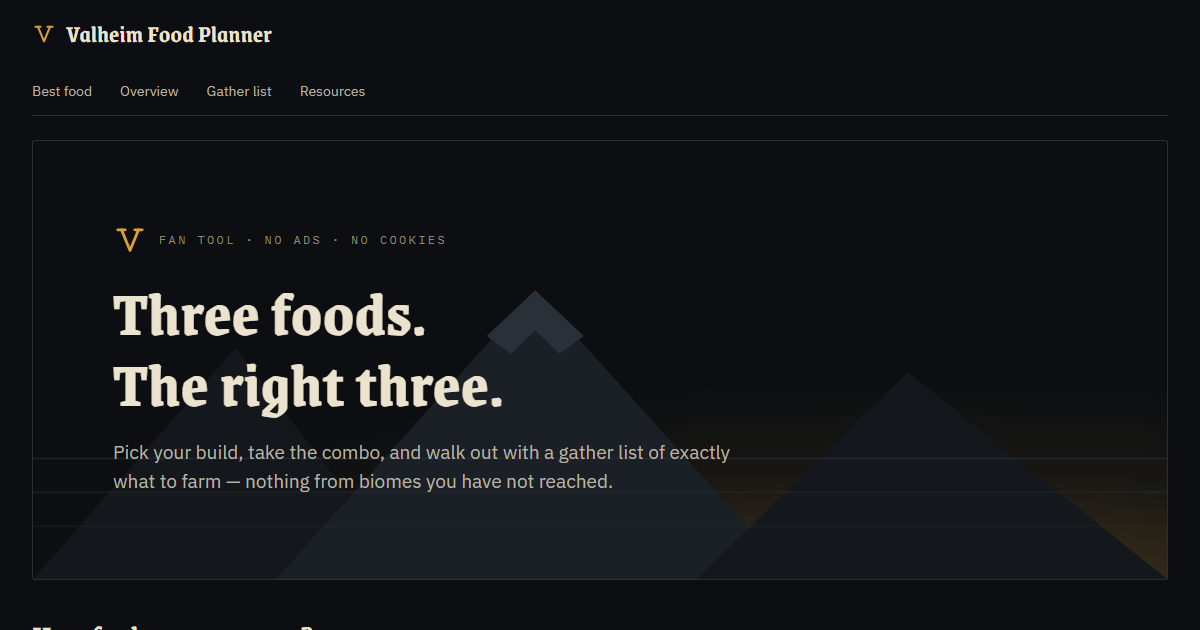
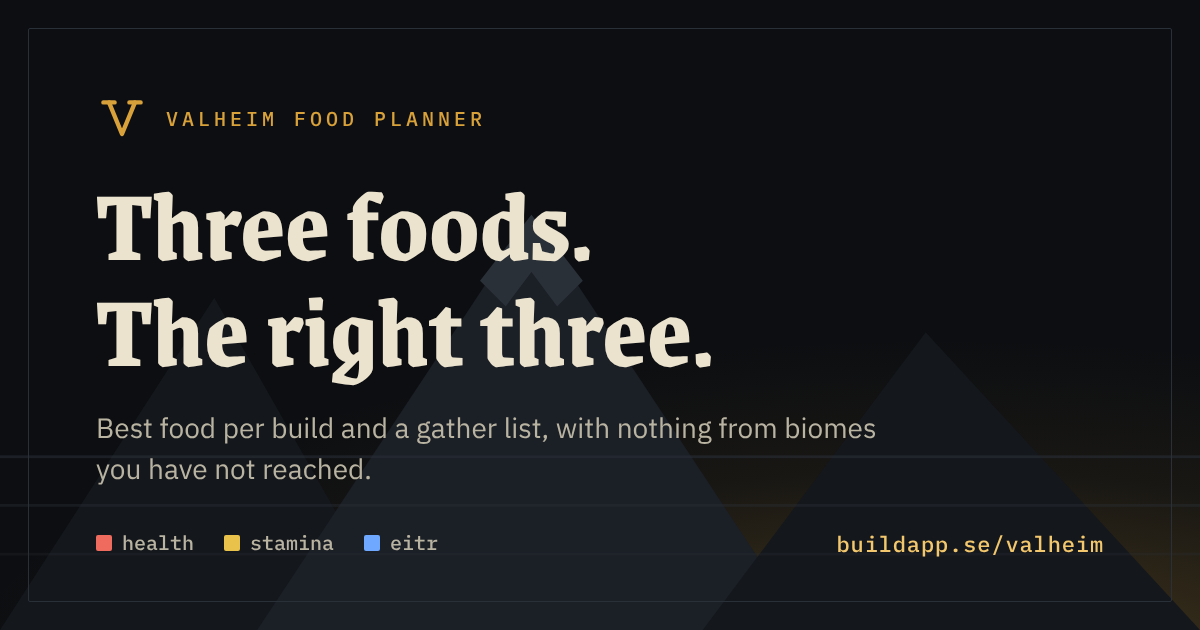
Delningsbild ritad från og.source.html i stället för skärmklipp
Den gamla og.png var ett skärmklipp av sidans topp med en avklippt rubrik i
nederkanten och ingen källa. Nu ett eget kort i sidans stil (bergskammen, glöden,
Grenze, V-märket), renderat 1200x630 med Playwright från og.source.html.

Claude-Session: https://claude.ai/code/session_012Wu9qtNehbMa9msHaviQqF

diff --git a/og.source.html b/og.source.html
@@ -1,0 +1,49 @@
+<!doctype html>
+<!-- Source for icons/og.png (1200x630), the share preview. Not deployed.
+     Render: open at 1200x630 in headless Chromium once the fonts have loaded and screenshot the
+     viewport. Colours, ridge and type are copied from style.css and the first-visit hero in src/app.ts. -->
+<html lang="en">
+<head>
+<meta charset="utf-8">
+<link href="https://fonts.googleapis.com/css2?family=Grenze:wght@700&family=IBM+Plex+Sans:wght@400&family=IBM+Plex+Mono:wght@500&display=block" rel="stylesheet">
+<style>
+  * { margin: 0; padding: 0; box-sizing: border-box; }
+  html, body { width: 1200px; height: 630px; overflow: hidden; }
+  body { background: #0c0e11; color: #ece3cf; font-family: 'IBM Plex Sans', sans-serif; position: relative; }
+  .glow { position: absolute; inset: 0; background: radial-gradient(120% 80% at 78% 108%, rgb(216 161 58 / 0.30), rgb(216 161 58 / 0.06) 42%, rgb(12 14 17 / 0) 68%); }
+  .ridge { position: absolute; left: 0; bottom: 0; width: 1200px; height: 630px; }
+  .frame { position: absolute; inset: 28px; border: 1px solid #2a3038; border-radius: 2px; }
+  .copy { position: absolute; left: 96px; top: 92px; right: 96px; display: flex; flex-direction: column; gap: 26px; }
+  .eyebrow { display: flex; align-items: center; gap: 18px; color: #d8a13a; font-family: 'IBM Plex Mono', monospace; font-weight: 500; font-size: 20px; letter-spacing: 0.2em; }
+  .eyebrow svg { width: 52px; height: 52px; }
+  h1 { font-family: 'Grenze', serif; font-weight: 700; font-size: 104px; line-height: 1.02; }
+  p { font-size: 28px; line-height: 1.45; color: #b9b3a2; max-width: 820px; }
+  .stats { position: absolute; left: 96px; bottom: 74px; display: flex; gap: 30px; font-family: 'IBM Plex Mono', monospace; font-weight: 500; font-size: 20px; color: #b9b3a2; }
+  .stats i { display: inline-block; width: 16px; height: 16px; border-radius: 2px; margin-right: 10px; vertical-align: -1px; }
+  .url { position: absolute; right: 96px; bottom: 72px; font-family: 'IBM Plex Mono', monospace; font-weight: 500; font-size: 22px; letter-spacing: 0.04em; color: #f2c76d; }
+</style>
+</head>
+<body>
+  <div class="glow"></div>
+  <svg class="ridge" viewBox="0 0 1400 440" preserveAspectRatio="none" aria-hidden="true">
+    <polygon points="0,440 250,208 470,440" fill="#14171c"></polygon>
+    <polygon points="300,440 620,150 940,440" fill="#1b1f26"></polygon>
+    <polygon points="820,440 1080,232 1400,440" fill="#14171c"></polygon>
+    <polygon points="560,196 620,150 680,196 650,214 620,190 590,214" fill="#2a3038"></polygon>
+    <rect x="0" y="318" width="1400" height="2" fill="#2a3038" opacity=".55"></rect>
+    <rect x="0" y="352" width="1400" height="2" fill="#2a3038" opacity=".4"></rect>
+    <rect x="0" y="386" width="1400" height="2" fill="#2a3038" opacity=".25"></rect>
+  </svg>
+  <div class="frame"></div>
+  <div class="copy">
+    <div class="eyebrow">
+      <svg viewBox="0 0 24 24" aria-hidden="true"><g fill="none" stroke="currentColor" stroke-width="2" stroke-linecap="round" stroke-linejoin="round"><path d="M6 4.8 12 19.4 18 4.8"></path><path d="M3.4 4.8h5.2M15.4 4.8h5.2"></path></g></svg>
+      VALHEIM FOOD PLANNER
+    </div>
+    <h1>Three foods.<br>The right three.</h1>
+    <p>Best food per build and a gather list, with nothing from biomes you have not reached.</p>
+  </div>
+  <div class="stats"><span><i style="background:#ef6b5e"></i>health</span><span><i style="background:#e8c24a"></i>stamina</span><span><i style="background:#6ea8ff"></i>eitr</span></div>
+  <div class="url">buildapp.se/valheim</div>
+</body>
+</html>

diff --git a/CONTEXT.md b/CONTEXT.md
@@ -48,6 +48,9 @@ section, the chosen biome and the primary action. Dark theme only.
   (favicon 16 and 32, apple-touch-icon 180, icon 192 and 512), screenshotted once in headless
   Chrome from the two SVG marks: redo them by hand if the mark changes. The head links the PNGs
   first and the SVG last, so browsers that take SVG favicons still get the sharp one.
+- The share preview `icons/og.png` (1200x630) is rendered from `og.source.html` in the repo root:
+  the hero's ridge, glow and type on the page ground. Not deployed. Rerender with headless Chromium at
+  1200x630 after the fonts have loaded, and keep `og:image:alt` in `index.html` in step with it.
 - Four sections stay **one scrolling page**, not tabs: choosing a combo, checking the numbers and
   gathering is one workflow, and tabs would hide the gather list exactly while it is being filled.
   The nav is sticky with scroll-spy and carries a live gather count.
@@ -94,7 +97,7 @@ Read by the cockpit Audits tab. One `- Label: YYYY-MM-DD, result` per check; con
 - Actions (automated): 2026-10-06, pass, zizmor 0 high, 0 medium, 0 low; evidence C:/dev/aifabriken/.runs/audits/2026-10-06-batch-a/valheim.json
 - Markup (automated): 2026-10-06, blocked, 1 targets; 0 failed, 1 blocked; evidence C:/dev/aifabriken/.runs/audits/2026-10-06-batch-a2/valheim.json
 - WCAG 2.2 AA (automated): 2026-10-06, blocked, 1 targets; 0 failed, 1 blocked; evidence C:/dev/aifabriken/.runs/audits/2026-10-06-batch-a2/valheim.json
-- OG image: 2026-10-27, pass, 1200x630 PNG, https://buildapp.se/valheim/icons/og.png, screenshot of the top of the page, checked live and by eye
+- OG image: 2026-11-04, pass, 1200x630 PNG, https://buildapp.se/valheim/icons/og.png; live tag and image answer 200 (the older page screenshot); the new card from og.source.html checked locally only, verdict reflects the local check until deployed
 - Database: 2026-10-25, none, localStorage
 - OWASP Top 10: 2026-10-30, warn, code review (Mistral Large, medium and high checked by Claude), no live probe; 0 high, 1 medium: no CSP in markup, zone CSP lacks script-src (shared zone rule)
 - ZAP baseline: 2026-10-27, n/a, static site on GitHub Pages with no server, cookies or forms; headers, TLS and markup are covered by their own columns, so a passive ZAP scan would repeat them
